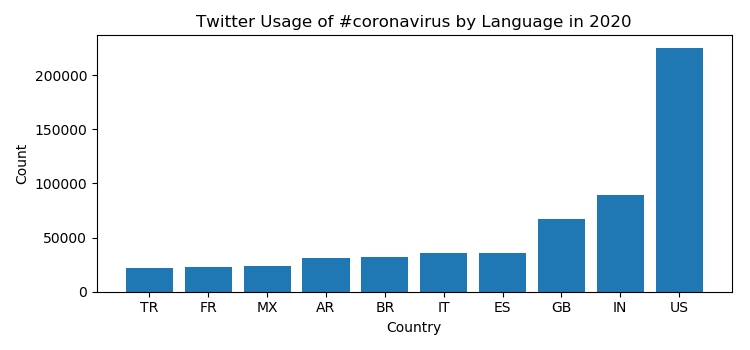
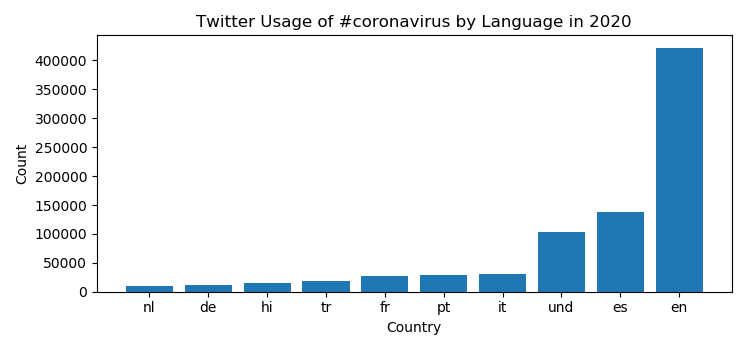
i

diff --git a/src/visualize.py b/src/visualize.py
@@ -12,6 +12,9 @@ args = parser.parse_args()
 import os
 import json
 from collections import Counter,defaultdict
+import matplotlib
+matplotlib.use('Agg')
+import matplotlib.pyplot as plt
 
 # open the input path
 with open(args.input_path) as f:
@@ -24,5 +27,61 @@ if args.percent:
 
 # print the count values
 items = sorted(counts[args.key].items(), key=lambda item: (item[1],item[0]), reverse=True)
+
+#sorted_items = sorted(items.items(), key = lambda x: x[1])
+
+#x_axis = []
+#y_axis = []
+
+#for x in items[0:10]:
+#    x_axis.append(x[0])
+
+#for y in items[0:10]:
+#    y_axis.append(y[1])
+
+#plt.rcParams["figure.figsize"] = [7.50, 3.50]
+#plt.rcParams["figure.autolayout"] = True
+#
+#index = range(len(x_axis))[::-1]
+#plt.bar(index, y_axis)
+#plt.xticks(index, x_axis)
+#print("args.input_path=", type(args.input_path))
+#if str(args.key) == 'lang':
+#    plt.title (f'Twitter Usage of {args.key} by Language in 2020') 
+#    plt.xlabel ('Language')
+#    plt.ylabel ('Count')
+#    plt.show()
+#    plt.savefig (f'lang2 {args.key} barchart.png')
+#else:
+#    plt.title (f'Twitter Usage of {args.key} by Language in 2020')
+#    plt.xlabel ('Country')
+#    plt.ylabel ('Count')
+#    plt.show()
+#    plt.savefig (f'country{args.key} barchart.png')
 for k,v in items:
-    print(k,':',v)
+    #list1.append(k)
+    #list2.append(v)
+    print(k, ':' ,v)
+#print(list1)
+#print(list2)
+top_items = items[:10]
+keys = [item[0] for item in top_items]
+values = [item[1] for item in top_items]
+keys = keys[::-1]
+values = values[::-1]
+
+plt.bar(range(len(keys)), values)
+plt.xticks(range(len(keys)), keys)
+
+if args.input_path[-1] == 'g': 
+    plt.xlabel('Language')
+else:
+    plt.xlabel('Country')
+if args.percent:
+    ply.ylabel('Percent of Total')
+else:
+    plt.ylabel('Tweet Volume')
+if args.input_path[-1] == 'g':
+    plt.savefig(args.key[1:] + '_lang.png')
+else:
+    plt.savefig(args.key[1:] + '_country.png')

diff --git a/src/map.py b/src/map.py
@@ -37,7 +37,7 @@ hashtags = [
 
 # initialize counters
 counter_lang = defaultdict(lambda: Counter())
-
+counter_country = defaultdict(lambda: Counter()) 
 # open the zipfile
 with zipfile.ZipFile(args.input_path) as archive:
 
@@ -60,9 +60,16 @@ with zipfile.ZipFile(args.input_path) as archive:
                 # search hashtags
                 for hashtag in hashtags:
                     lang = tweet['lang']
+                    if tweet['place']: 
+                        if tweet['place']['country_code']:
+                            country = tweet['place']['country_code']
                     if hashtag in text:
                         counter_lang[hashtag][lang] += 1
+                        if country:
+                            counter_country[hashtag][country] += 1
+                            counter_country['_all'][country] += 1
                     counter_lang['_all'][lang] += 1
+                    
 
 # open the outputfile
 try:
@@ -72,7 +79,12 @@ except FileExistsError:
 output_path_base = os.path.join(args.output_folder,os.path.basename(args.input_path))
 
 output_path_lang = output_path_base+'.lang'
+output_path_country = output_path_base+'.country'
+
 print('saving',output_path_lang)
 with open(output_path_lang,'w') as f:
     f.write(json.dumps(counter_lang))
 
+print('saving',output_path_country)
+with open(output_path_country,'w') as f:
+    f.write(json.dumps(counter_country))

diff --git a/src/reduce.py b/src/reduce.py
@@ -16,6 +16,7 @@ from collections import Counter,defaultdict
 total = defaultdict(lambda: Counter())
 for path in args.input_paths:
     with open(path) as f:
+        print(f'path:{path}')
         tmp = json.load(f)
         for k in tmp:
             total[k] += tmp[k]
